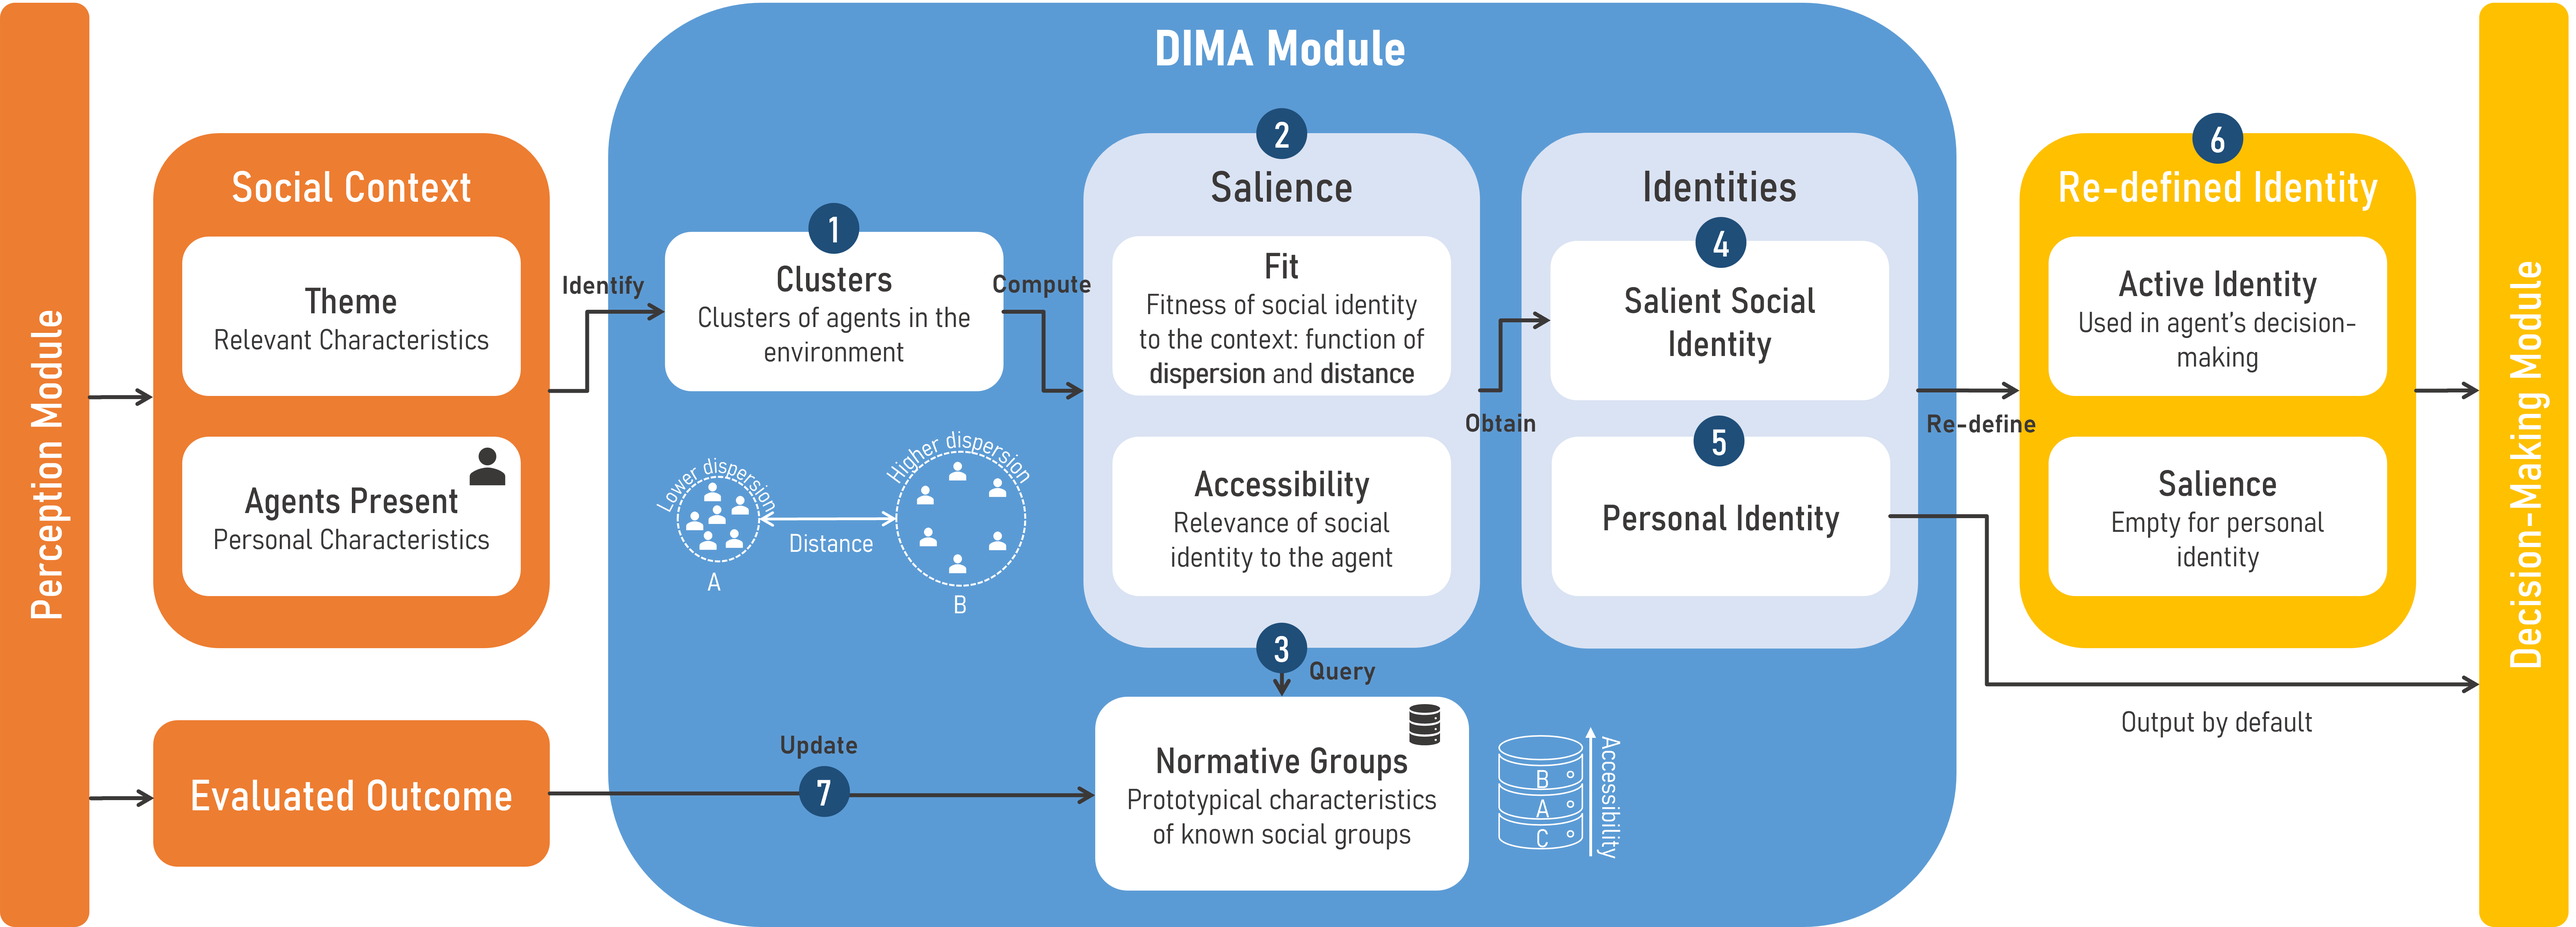
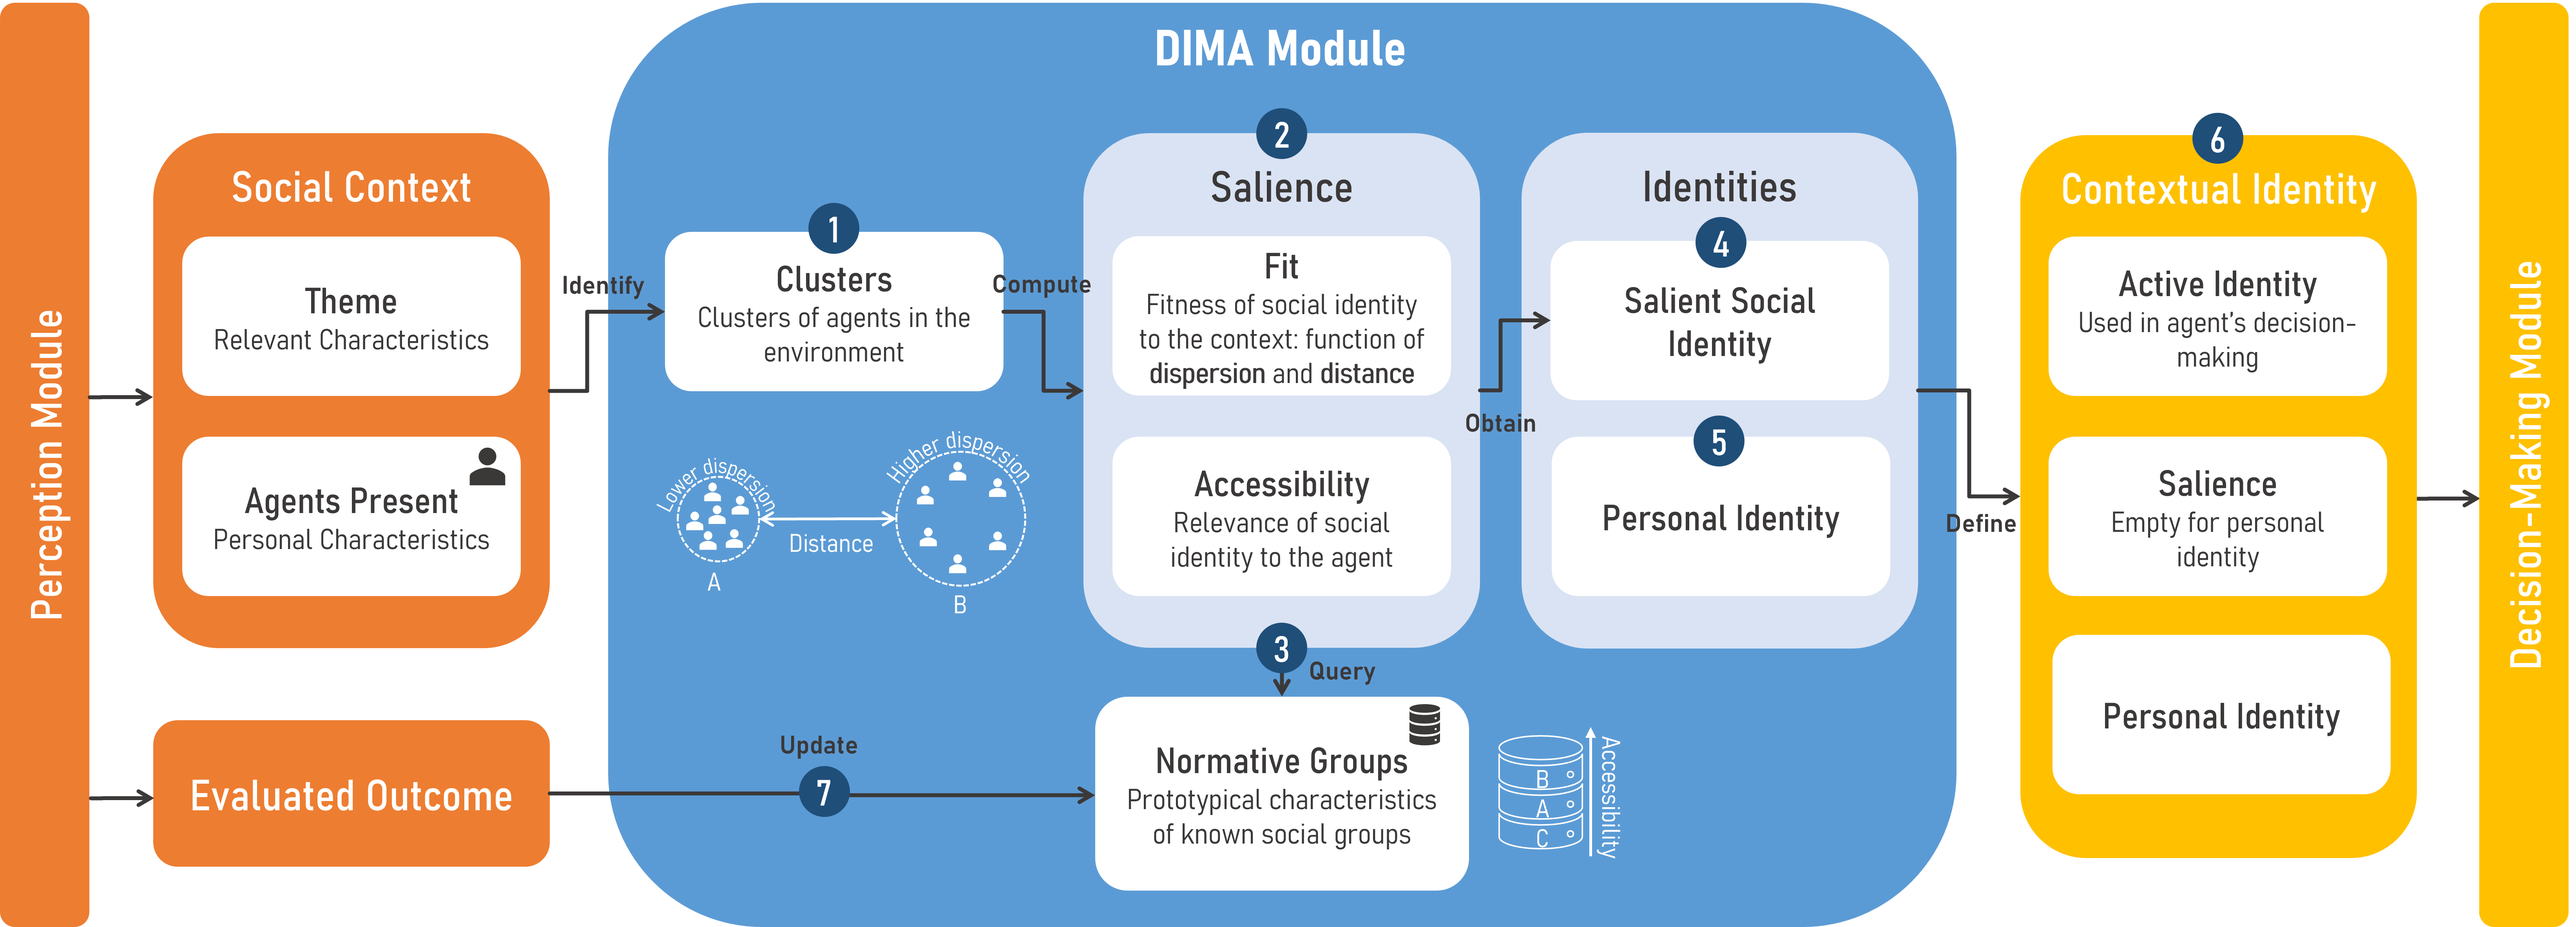
final fixes according to doc

diff --git a/README.md b/README.md
@@ -1,6 +1,6 @@
 # Dynamic Identity Model For Agents
 
-The Dynamic Identity Model for Agents (DIMA) is grounded on the Social Identity Approach (SIA), aiming to provide agents with multi-faceted and context-dependent identities. At the core of the model is the identity salience mechanism, which uses agents’ perceived information regarding their social environment to determine the salience of social identities. Agents can then redefine their identities as unique individuals (personal identity) or as members of a social group (social identity). Consequently, each agent’s active identity will regulate their decisions in a given situation. This model can be integrated in a standard social agent architecture with a perception and decision-making modules.
+The Dynamic Identity Model for Agents (DIMA) is grounded on the Social Identity Approach (SIA), aiming to provide agents with multi-faceted and context-dependent identities. At the core of the model is the identity salience mechanism, which uses agents’ perceived information regarding their social environment to determine the salience of social identities. Agents can then define their identities as unique individuals (personal identity) or as members of a social group (social identity). Consequently, each agent’s active identity will regulate their decisions in a given situation. This model can be integrated in a standard social agent architecture with a perception and decision-making modules.
 
 Details about the model formalization and implementation can be found in the <i>JupyterNotebook</i> folder, in the <i>DynamicIdentityModelForAgents.ipynb</i> file. In addition, this folder contains a file showing how to configure DIMA for a specific simulation scenario, the <i>DIMA_DictatorGame.ipynb</i> file, in which several Dictator Game experiments are executed. The plots resulting from these experiments can be found in <i>JupyterNotebook/DIMA_plots</i> (<b>Note</b>: in a recent update, we changed the code to add markers to the scenario plots in case plot lines overlapped). 
 
